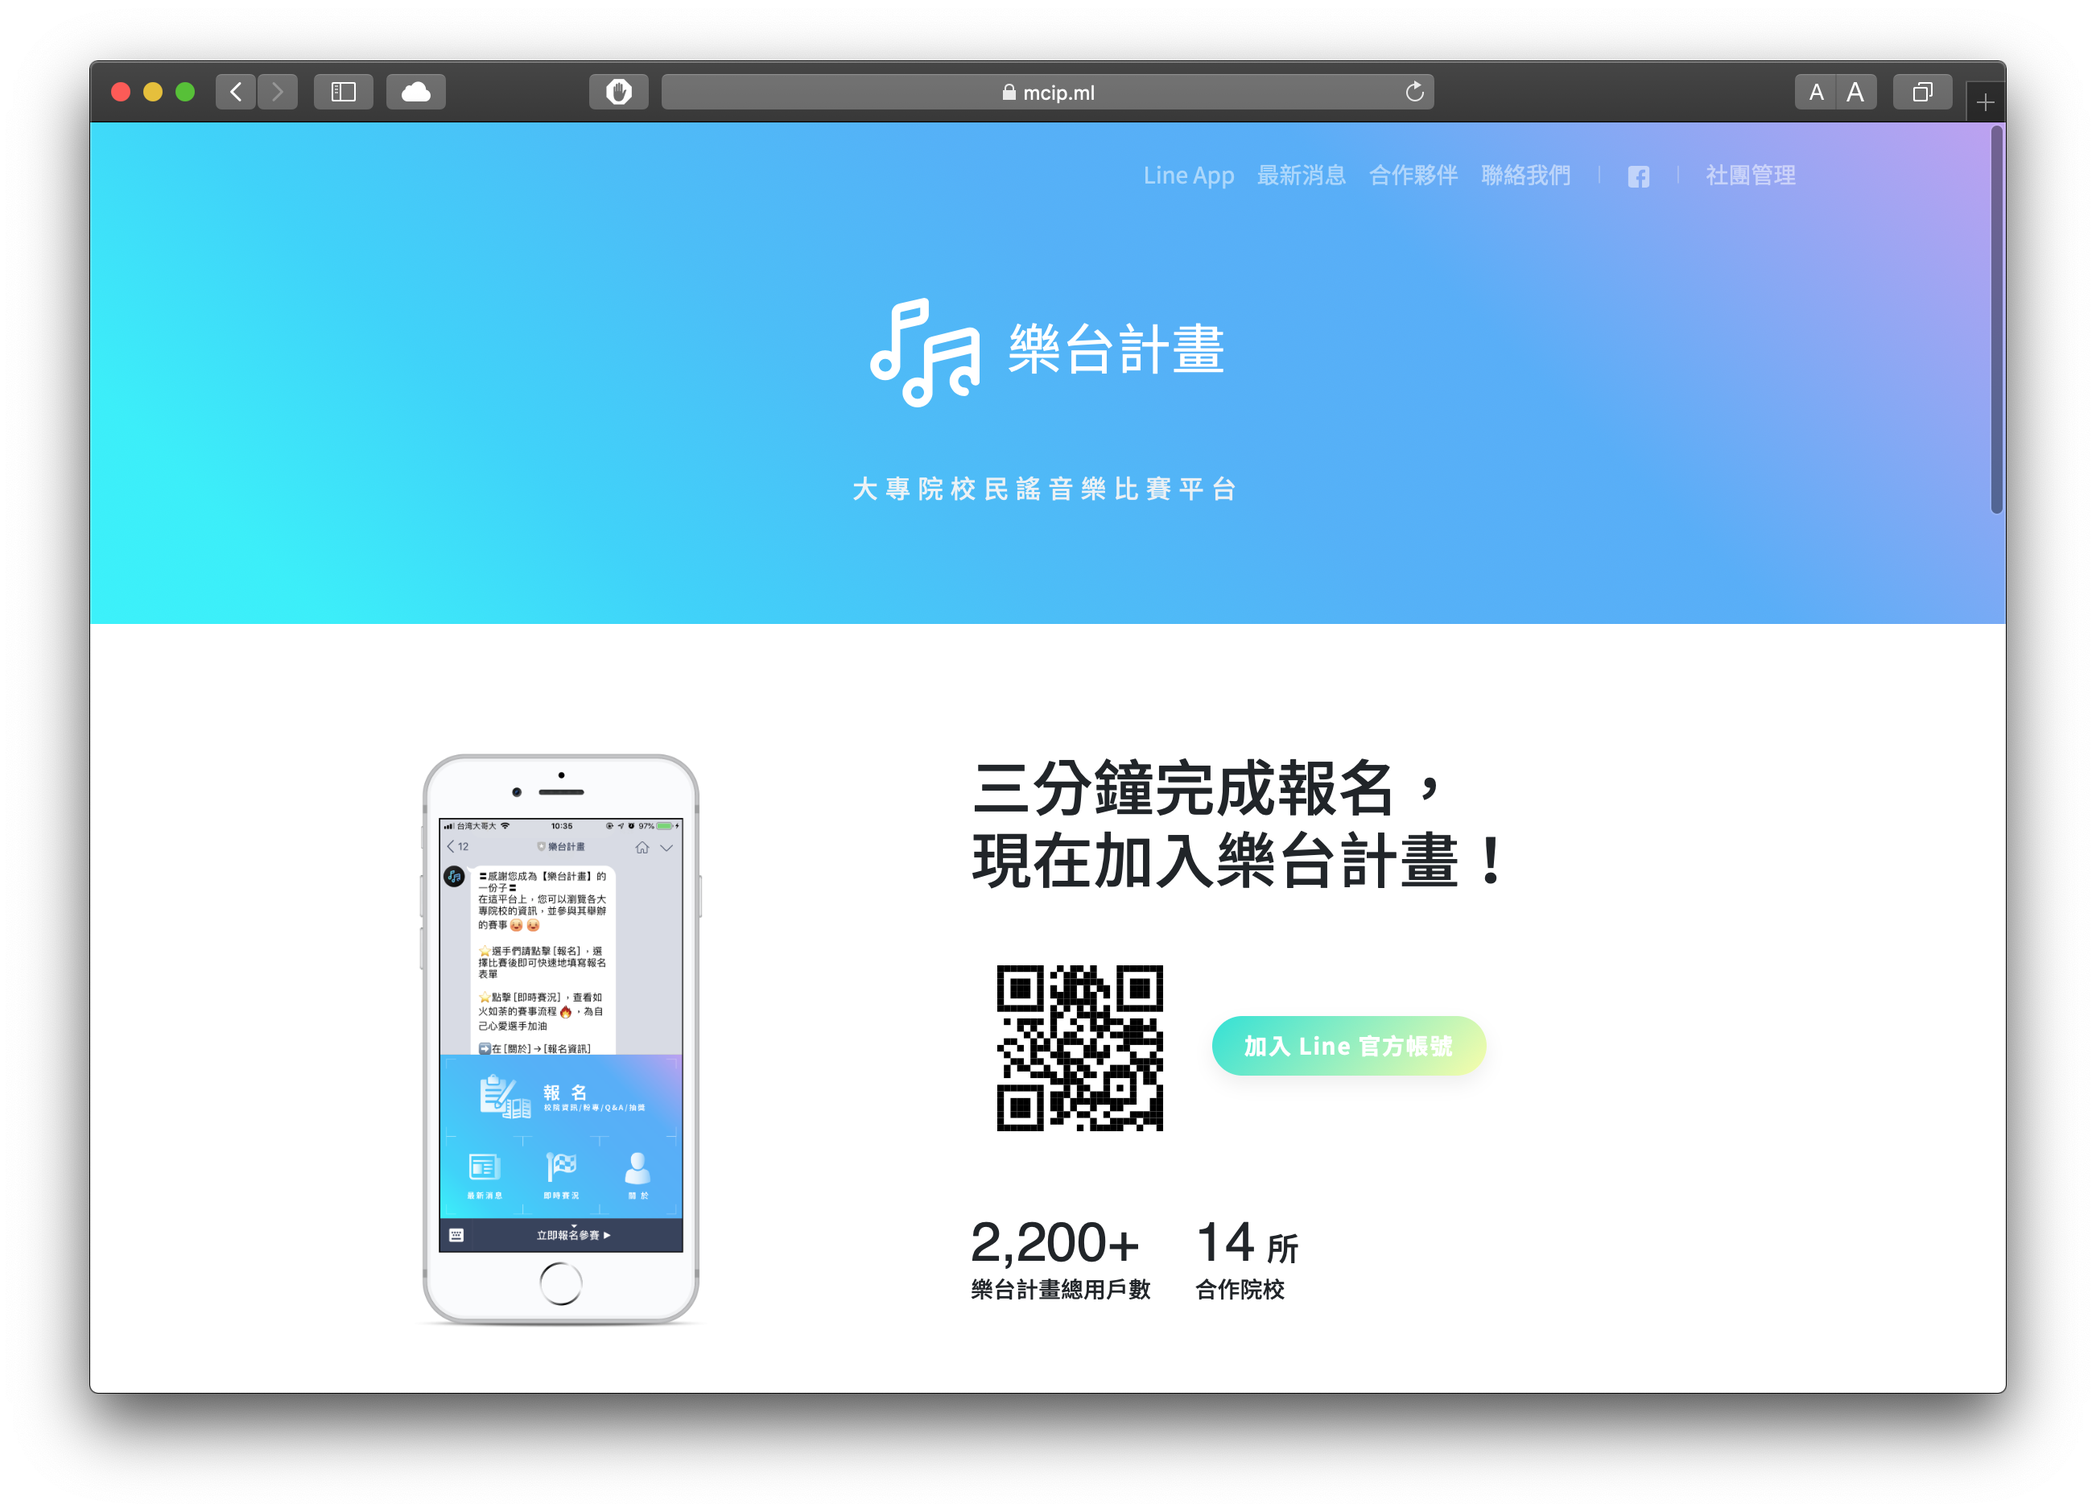
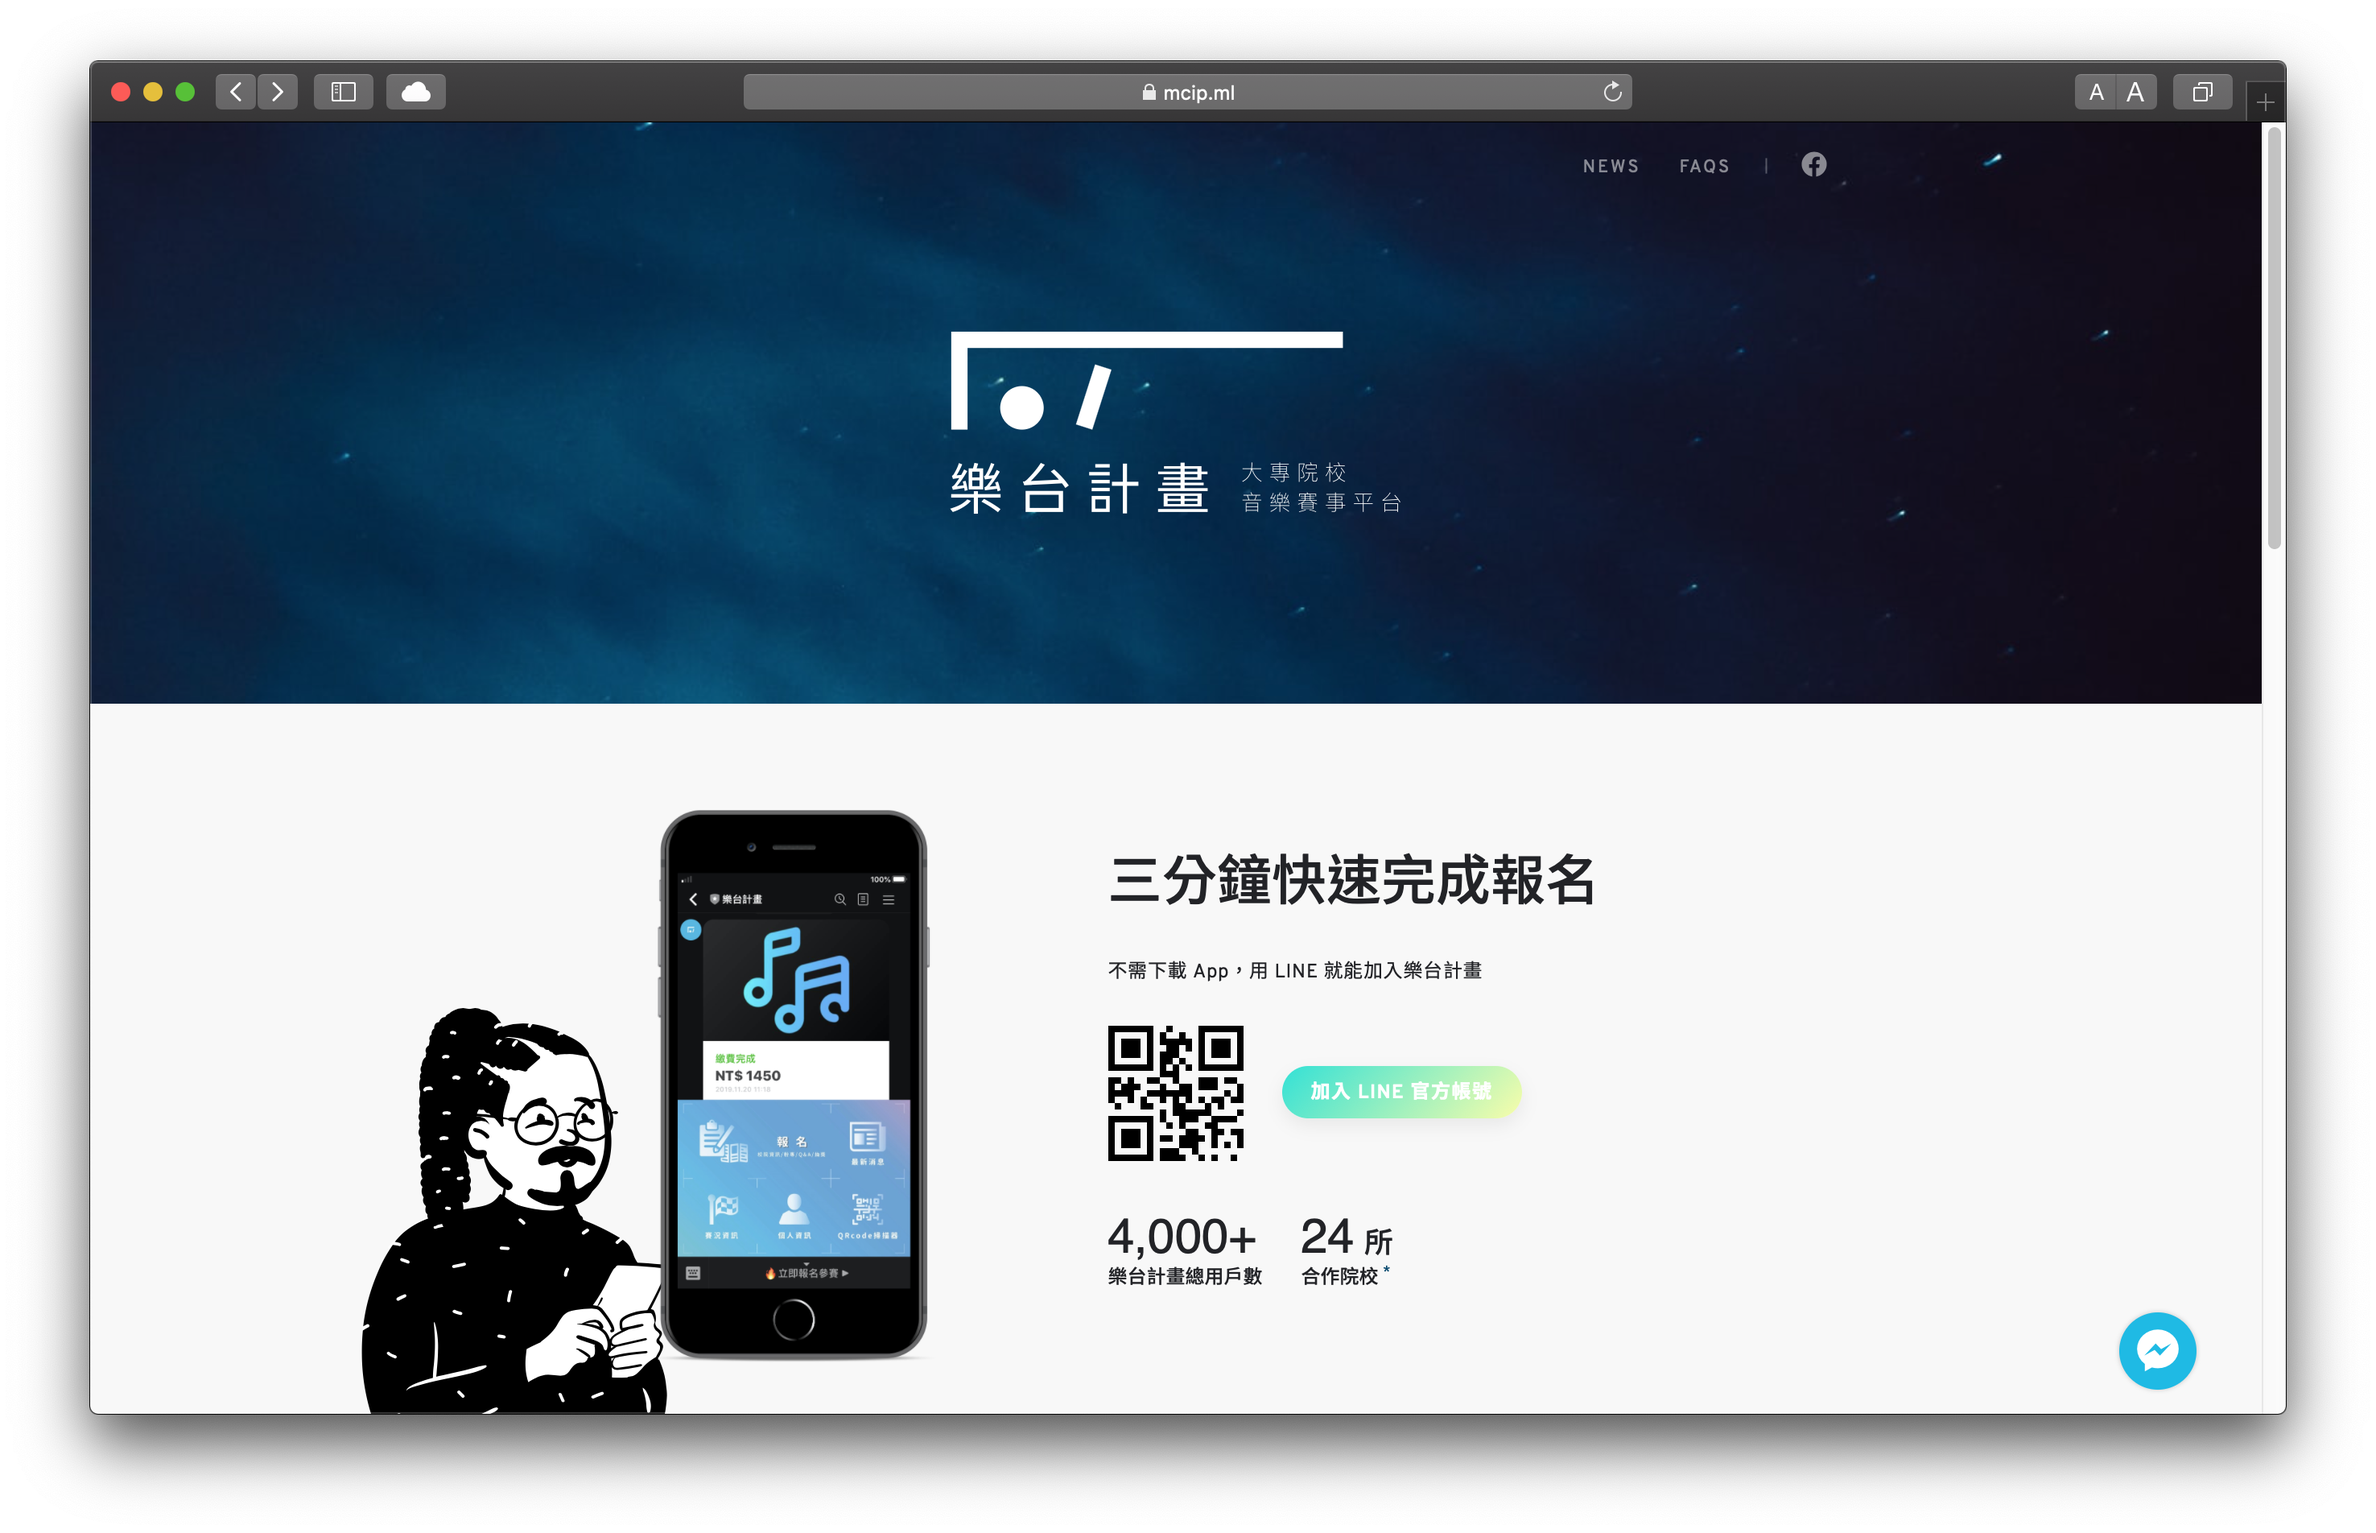
update: mcip

diff --git a/static/page/mcip.md b/static/page/mcip.md
@@ -4,9 +4,11 @@
 
 ![](/static/img/mcip/fb-cover.png)
 
-[樂台計畫](https://mcip.ml/)誕生於2018年的冬天，是我與大學好友 Kaichi 攜手開發的大專院校音樂平台，我們皆來自吉他社，宗旨是打造更優質的音樂賽事環境。系統雖已上線，但我們仍持續不斷地優化系統與擴展規模。
+[樂台計畫](https://mcip.ml/)誕生於 2018 年之冬，是我與大學好友 Kaichi 攜手開發的大專院校音樂平台，我們皆來自吉他社，基於對音樂的熱愛，我們協力打造出**樂台計畫**，宗旨是打造更優質的音樂賽事環境。
 
-對於參賽者，樂台計畫以 Line App 官方帳號的形式，讓用戶輕鬆簡單地報名參賽，瀏覽各賽事的詳細資訊，還有查看當前比賽進度等功能。目前用戶數已超過 1,500 人，全台有 14 所大專院校的音樂社團與我們成為合作夥伴。
+在上線屆滿一年來，**樂台計畫**傾聽了來自各方用戶的反饋和建議，不忘初心、砥礪前行，持續優化系統與擴展規模。
+
+對於參賽者，樂台計畫以 Line App 官方帳號的形式，讓用戶輕鬆簡單地報名參賽，瀏覽各賽事的詳細資訊，還有查看當前比賽進度等功能。目前用戶數已超過 4,000 人，全台共計有 24 所大專院校的音樂社團與我們成為合作夥伴。
 
 而對於主辦比賽的社團成員們，樂台計畫提供一套完整的後台管理系統。
 在此項目我負責的是**後台管理系統**開發與部分 Line App **UI/UX 設計**。
@@ -17,15 +19,15 @@
 ![參賽者報名列表](/static/img/mcip/forms.png)
 ![編輯報名表單](/static/img/mcip/edit-form.png)
 
-本專案落實前後端分離架構，擁有一套規範的 API，使用 axios 來與後端溝通。
+本專案落實前後端分離架構，擁有一套規範的 API，使用 Axios 與後端串接。
 ![登入畫面](/static/img/mcip/login.png)
 
-本專案全部都使用 Pug 模板語言進行撰寫，透過縮排就能很靈活地調整 html 的巢狀結構，它的混入功能也為設計模板帶來許多方便。
+本專案全部都使用 Pug 模板語言進行撰寫，透過縮排就能很靈活地調整 html 的巢狀結構，它的混入功能也為設計模板帶來許多便利。
 ![專案中使用的 Pug 模板](/static/img/mcip/pug.png)
 
 ![編輯賽況資訊](/static/img/mcip/competition.png)
 ![設定學校資訊](/static/img/mcip/config.png)
 
-除了管理後台之外，我也為樂台計畫設計了單頁式的形象官網。
+除了管理後台之外，我也為樂台計畫設計了單頁式的形象官網，一個以 Nuxt.js 建構的 SSR 網站。
 [https://mcip.ml/](https://mcip.ml/)
 ![形象官網](/static/img/mcip/index.png)
